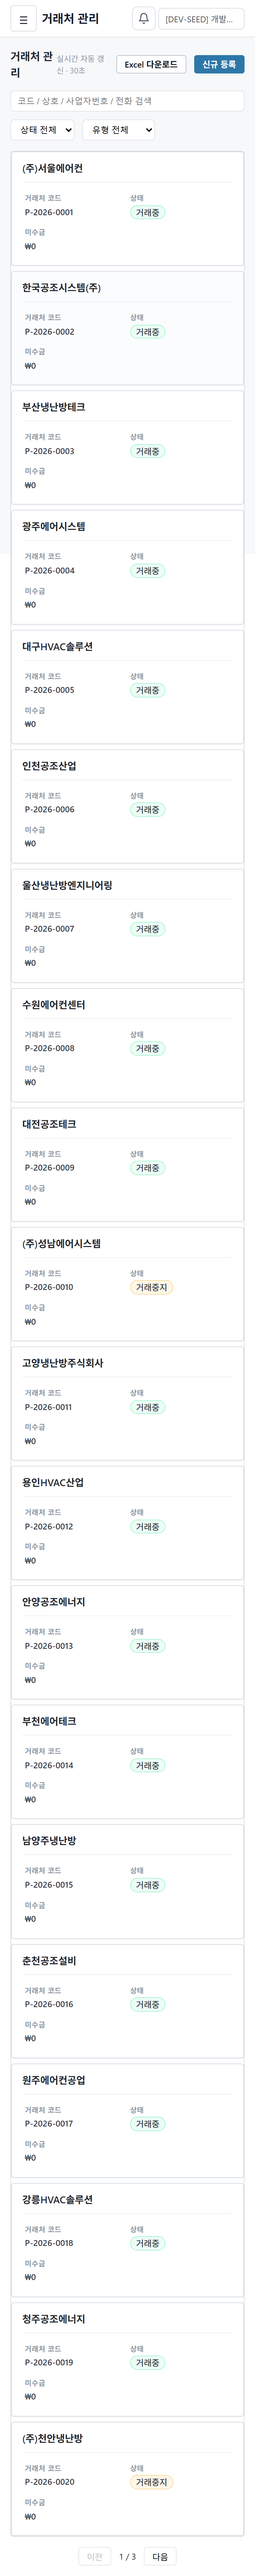
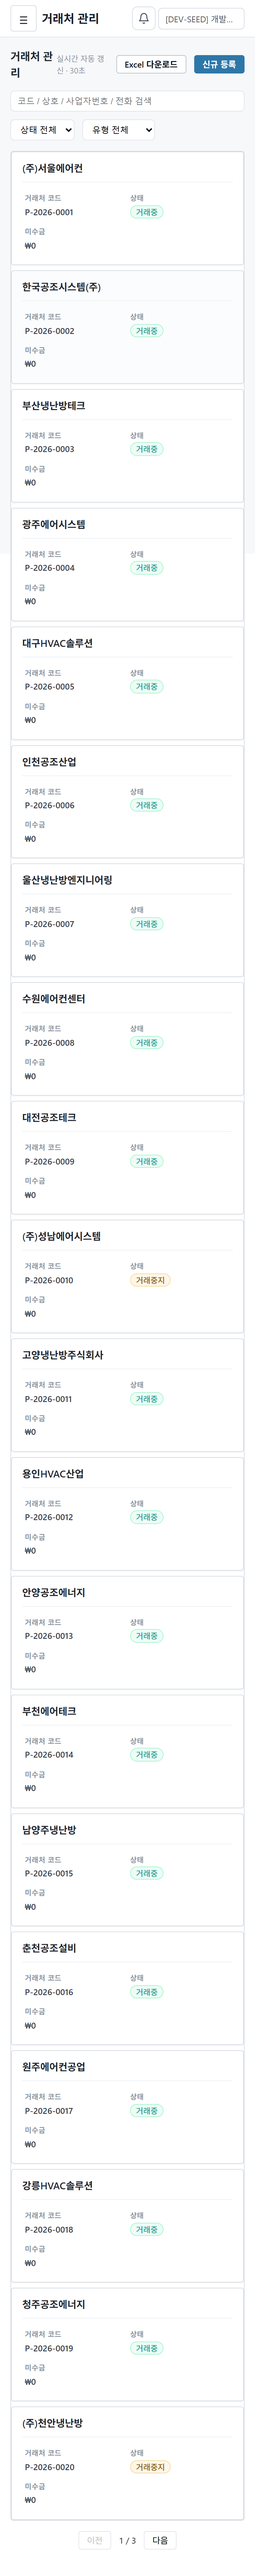
[FIX] 모바일 슬5 — 리뷰 마무리 (secondary 자식 variant 보존 + order:-1 dead code 제거)
- Codex MINOR: 카드 secondary `> *` 가 color/font-size/font-weight 강제 → Badge/SlipStatusBadge/Button
  variant 스타일(상태 색상·버튼 텍스트) 약화. layout 속성(min-width/overflow-wrap/word-break/
  font-variant-numeric)만 유지, 텍스트 톤은 td 상속. 배지 색상 보존 라이브 확인(거래중=초록/거래중지=주황).
- Opus NIT: primary td order:-1 은 name 이 DOM 첫 컬럼이 된 후 dead code → 제거(primary=DOM 첫째 계약 강제, 향후 a11y trap 방지).

typecheck 0, design-system 빌드 성공.

Claude-Session: https://claude.ai/code/session_01JmyP78edLs4gR3D16RStZ1

diff --git a/clients/web/design-system/src/components/DataTable/DataTable.module.css b/clients/web/design-system/src/components/DataTable/DataTable.module.css
@@ -211,7 +211,6 @@
 
   .tr:has(td[data-mobile-priority]) td[data-mobile-priority="primary"] {
     grid-column: 1 / -1;
-    order: -1;
     display: flex;
     justify-content: space-between;
     align-items: center;
@@ -273,9 +272,6 @@
 
   .tr:has(td[data-mobile-priority]) td[data-mobile-priority="secondary"] > * {
     min-width: 0;
-    color: var(--color-neutral-700, #374151);
-    font-size: 13px;
-    font-weight: 500;
     font-variant-numeric: tabular-nums;
     overflow-wrap: anywhere;
     word-break: break-word;
